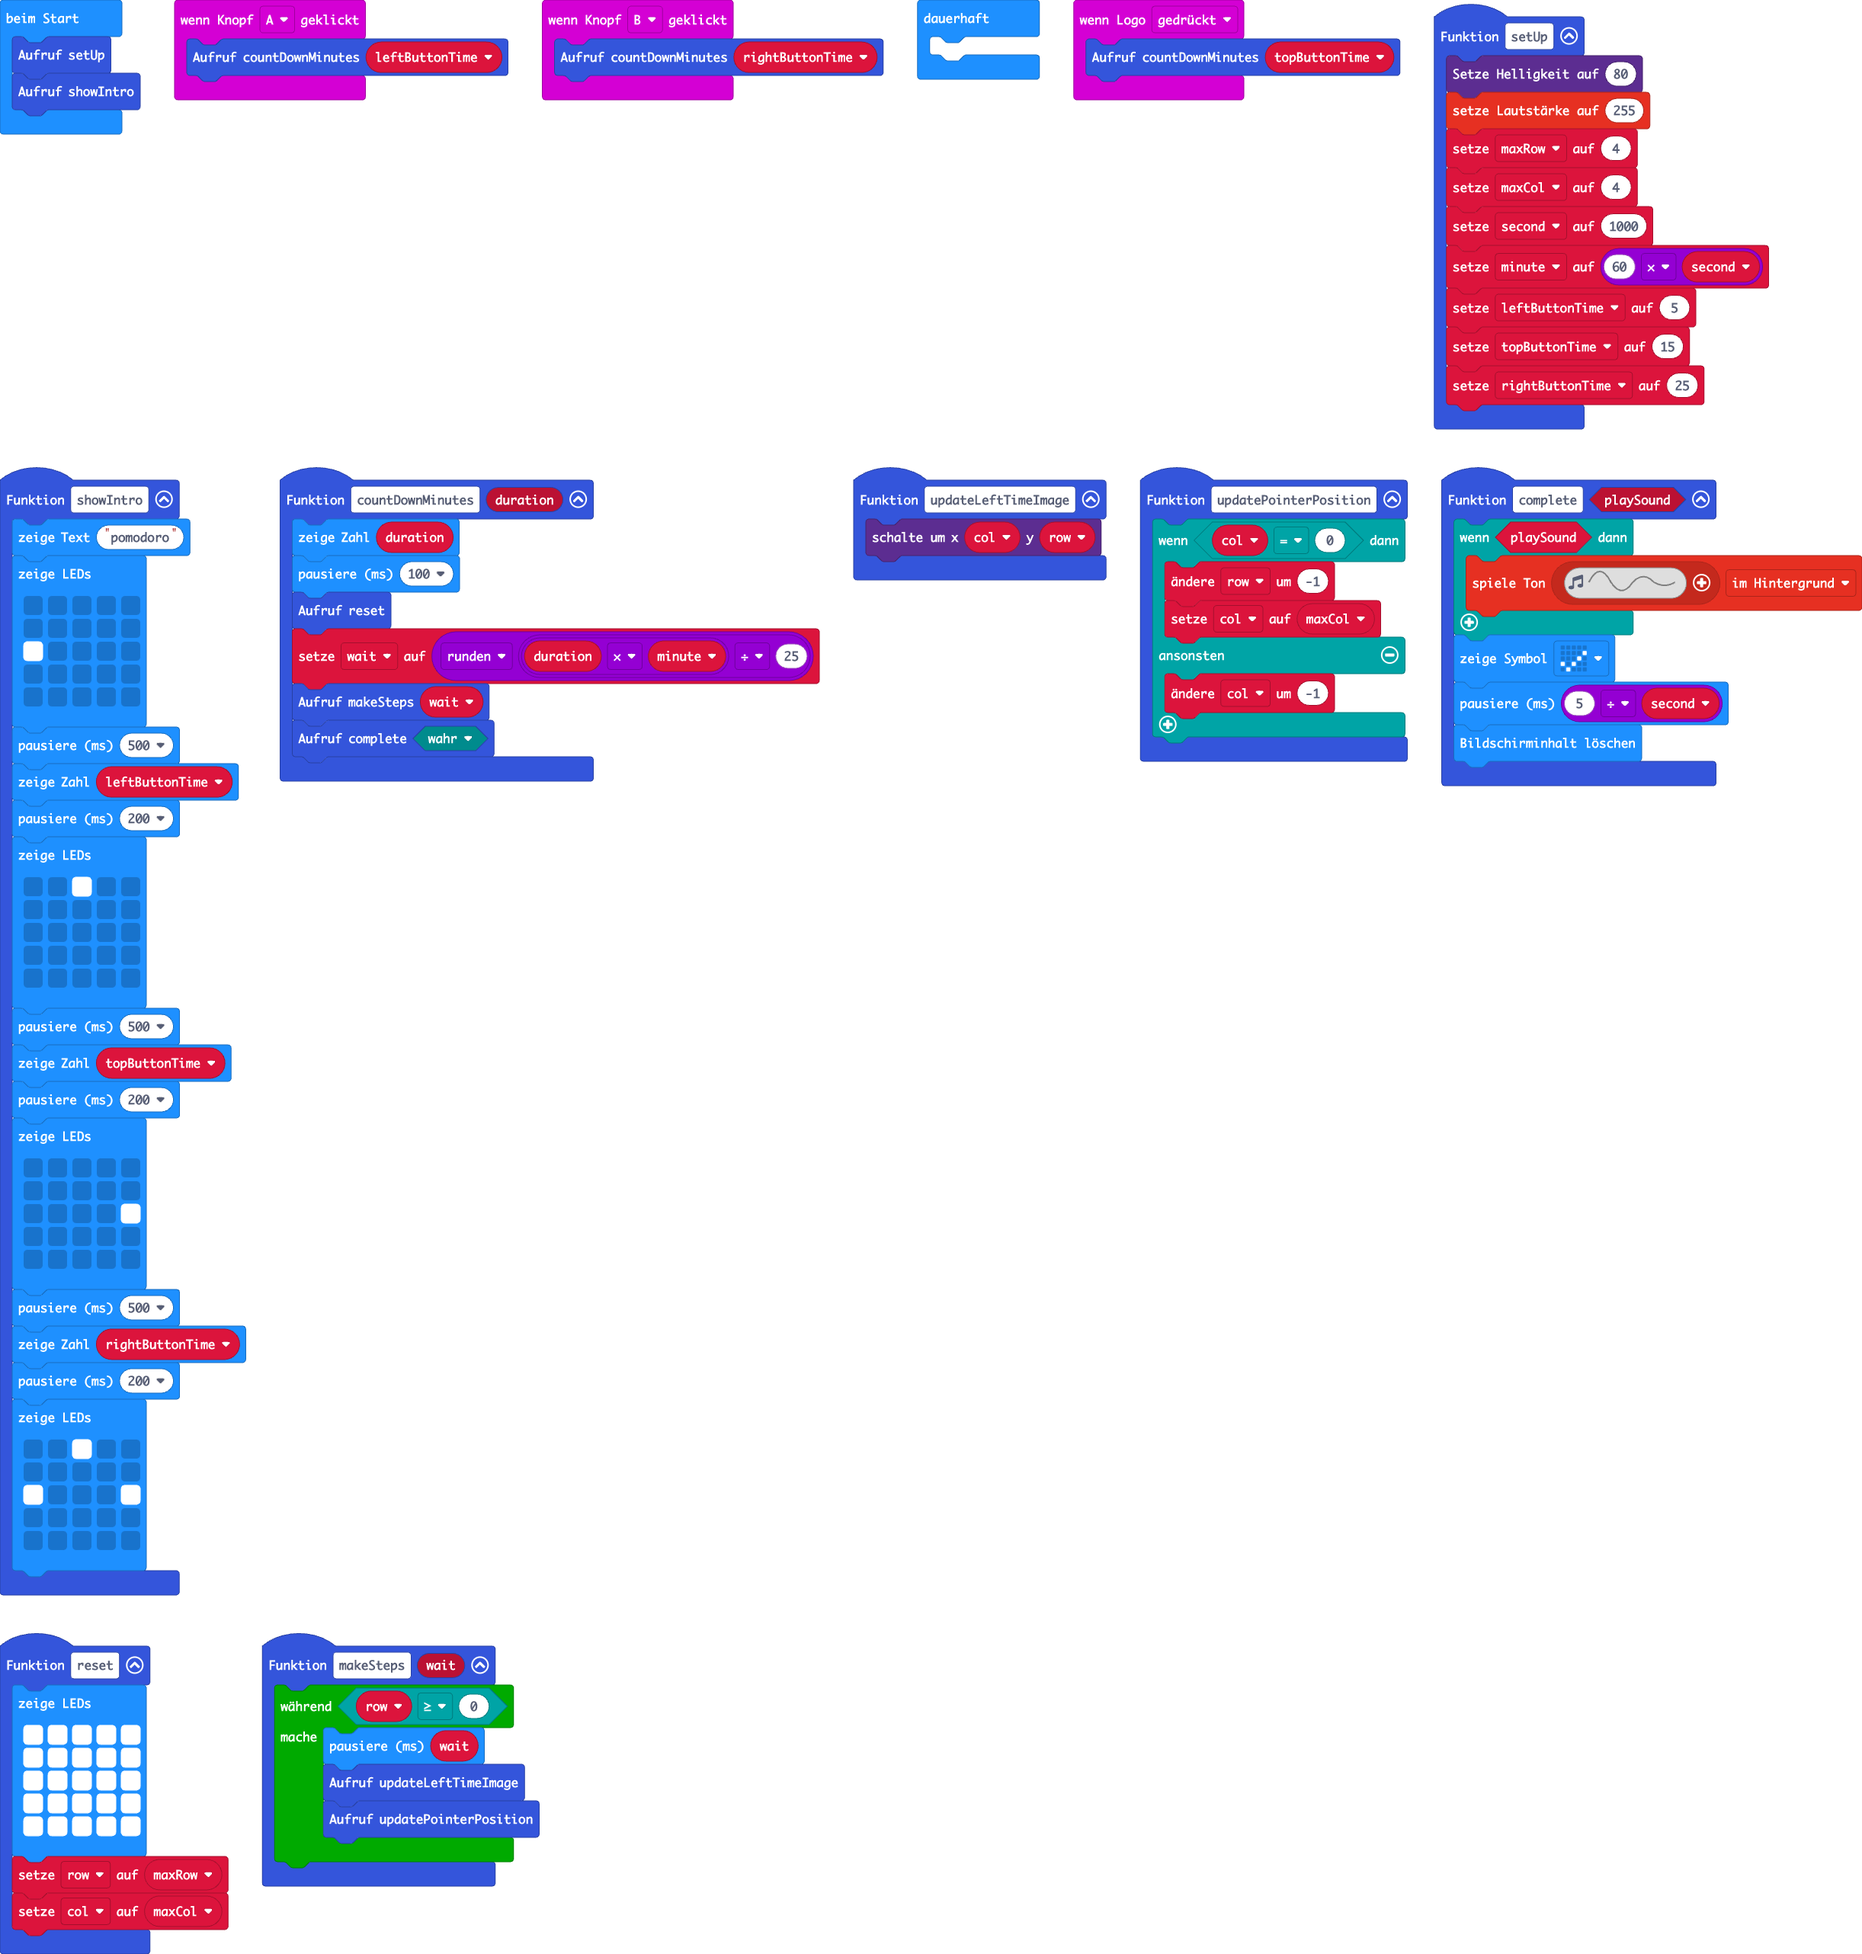
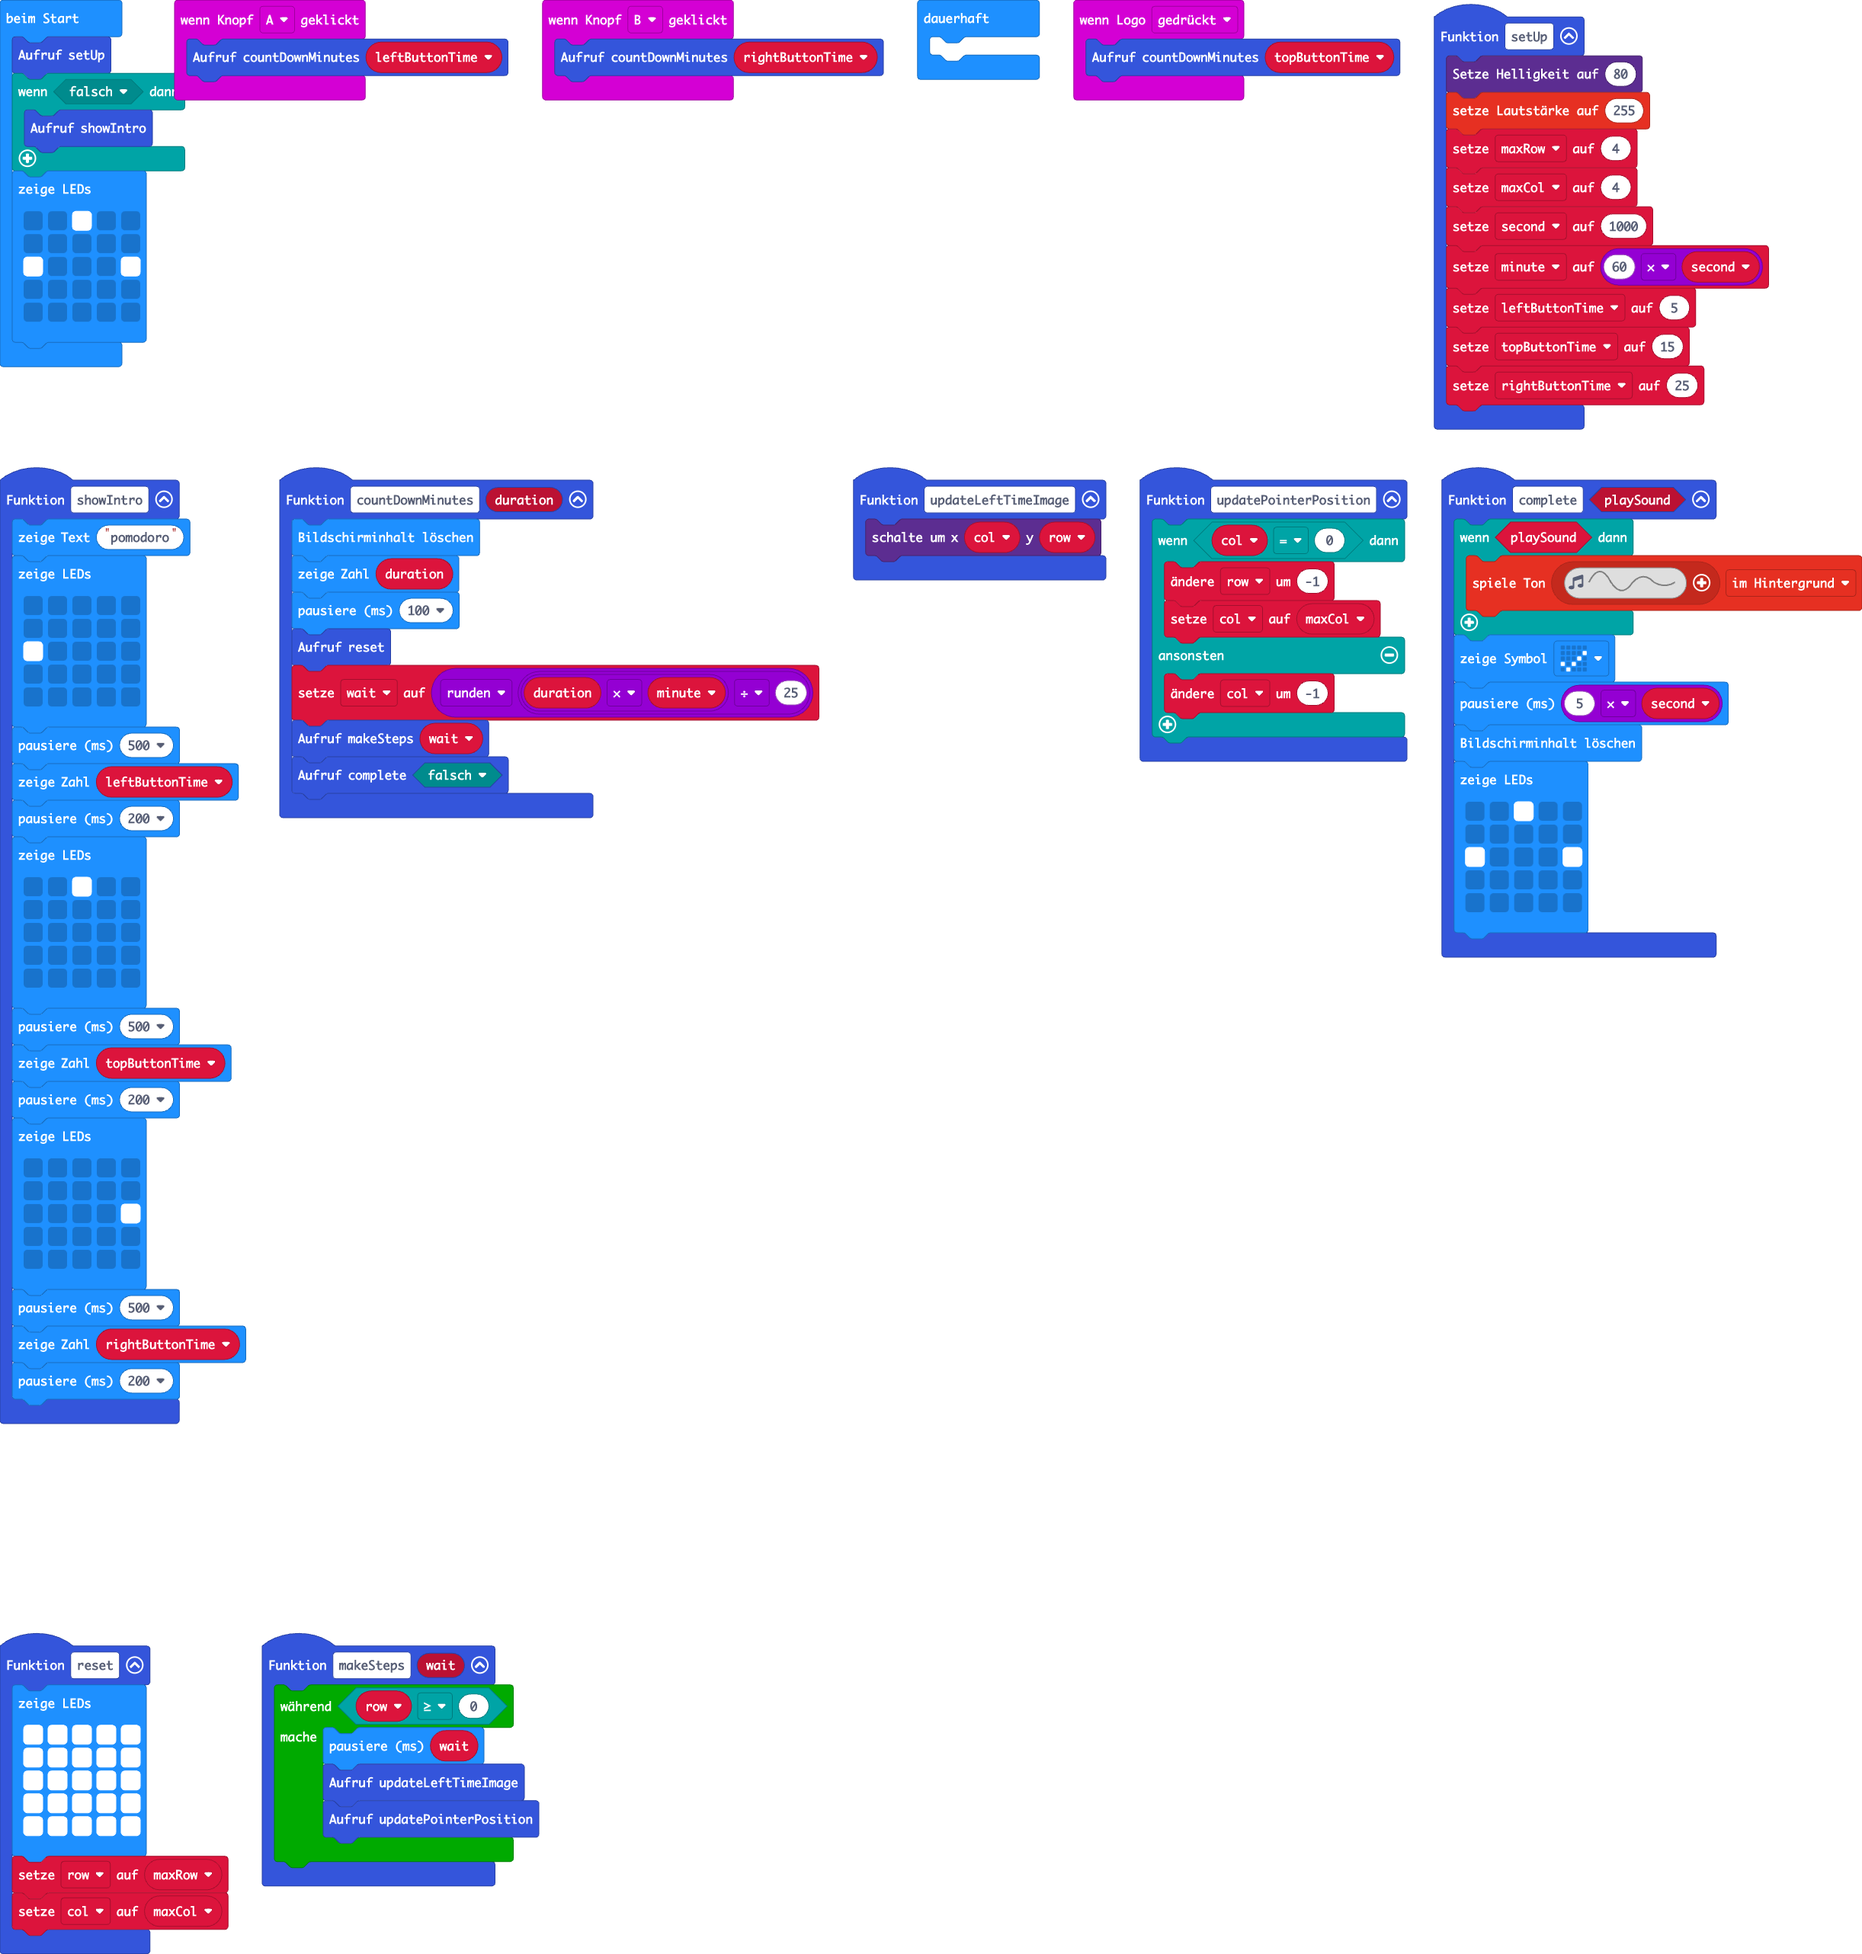
small UX improvements

diff --git a/main.ts b/main.ts
@@ -44,13 +44,6 @@ function showIntro () {
     basic.pause(500)
     basic.showNumber(rightButtonTime)
     basic.pause(200)
-    basic.showLeds(`
-        . . # . .
-        . . . . .
-        # . . . #
-        . . . . .
-        . . . . .
-        `)
 }
 function updatePointerPosition () {
     if (col == 0) {
@@ -64,20 +57,28 @@ input.onButtonPressed(Button.A, function () {
     countDownMinutes(leftButtonTime)
 })
 function countDownMinutes (duration: number) {
+    basic.clearScreen()
     basic.showNumber(duration)
     basic.pause(100)
     reset()
     wait = Math.round(duration * minute / 25)
     makeSteps(wait)
-    complete(true)
+    complete(false)
 }
 function complete (playSound: boolean) {
     if (playSound) {
         music.playSoundEffect(music.createSoundEffect(WaveShape.Sine, 200, 600, 255, 0, 150, SoundExpressionEffect.None, InterpolationCurve.Linear), SoundExpressionPlayMode.InBackground)
     }
     basic.showIcon(IconNames.Yes)
-    basic.pause(5 / second)
+    basic.pause(5 * second)
     basic.clearScreen()
+    basic.showLeds(`
+        . . # . .
+        . . . . .
+        # . . . #
+        . . . . .
+        . . . . .
+        `)
 }
 input.onButtonPressed(Button.B, function () {
     countDownMinutes(rightButtonTime)
@@ -114,7 +115,16 @@ let maxCol = 0
 let maxRow = 0
 let topButtonTime = 0
 setUp()
-showIntro()
+if (false) {
+    showIntro()
+}
+basic.showLeds(`
+    . . # . .
+    . . . . .
+    # . . . #
+    . . . . .
+    . . . . .
+    `)
 basic.forever(function () {
 	
 })
